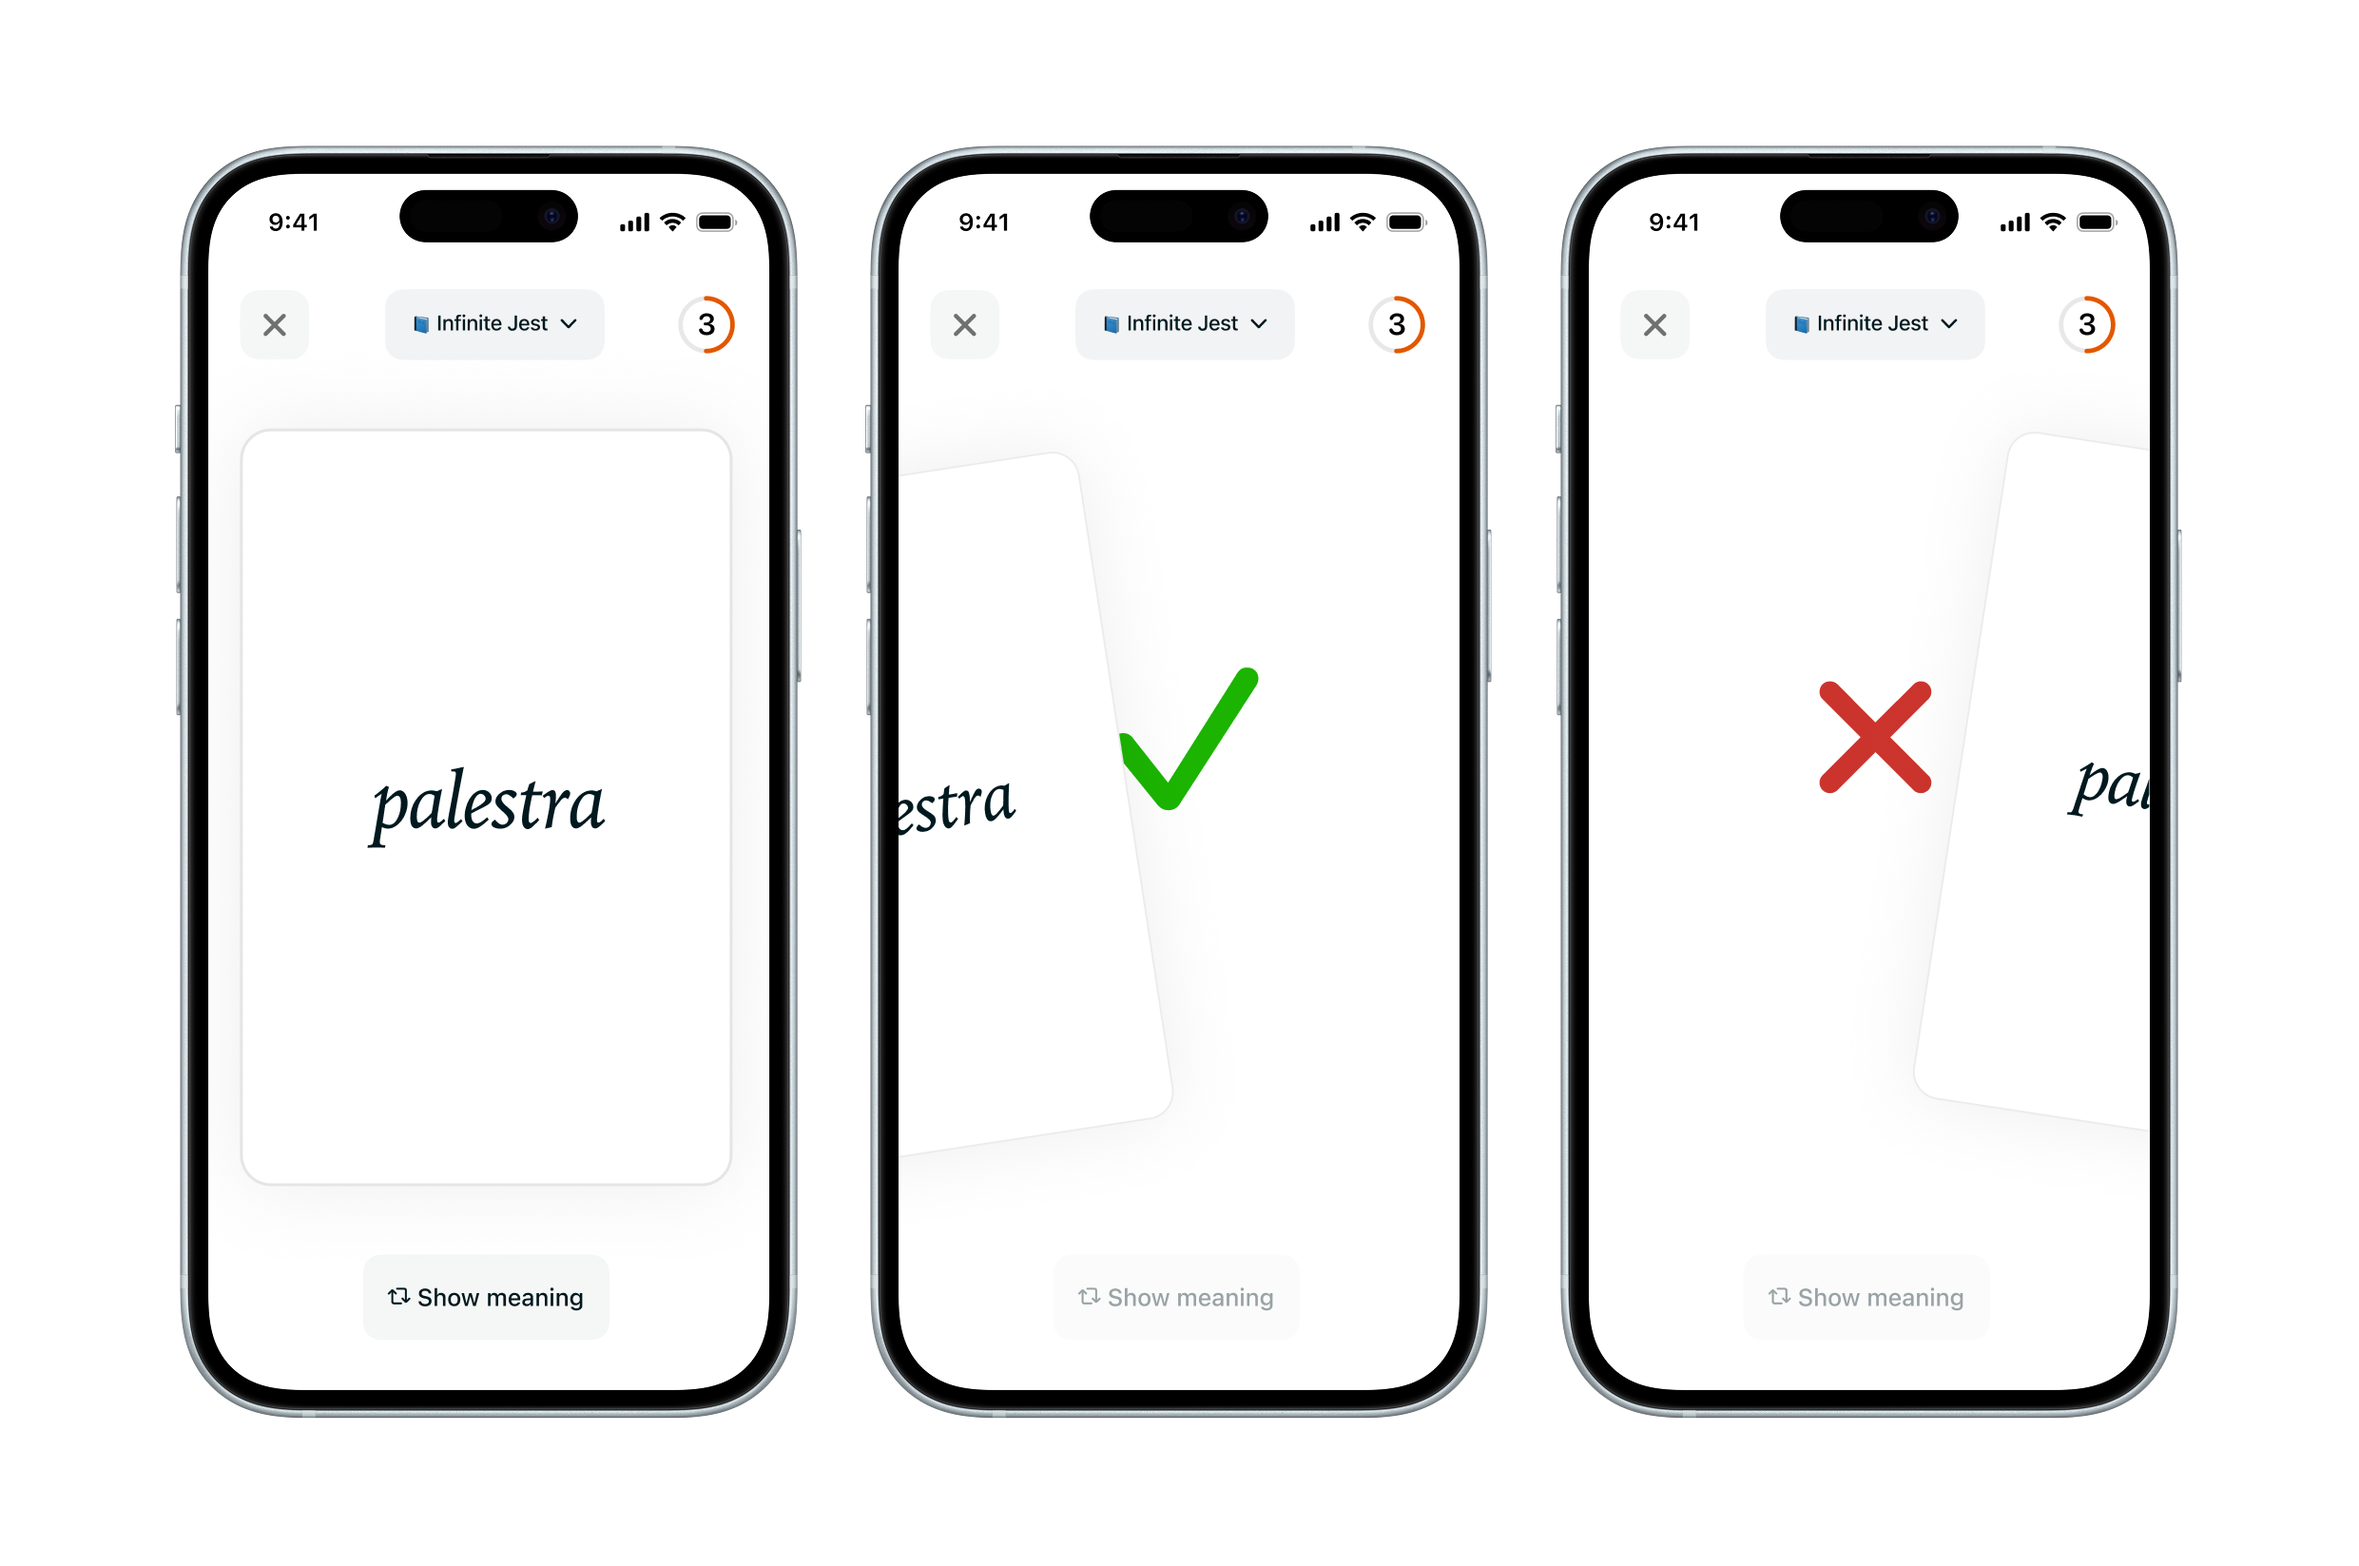
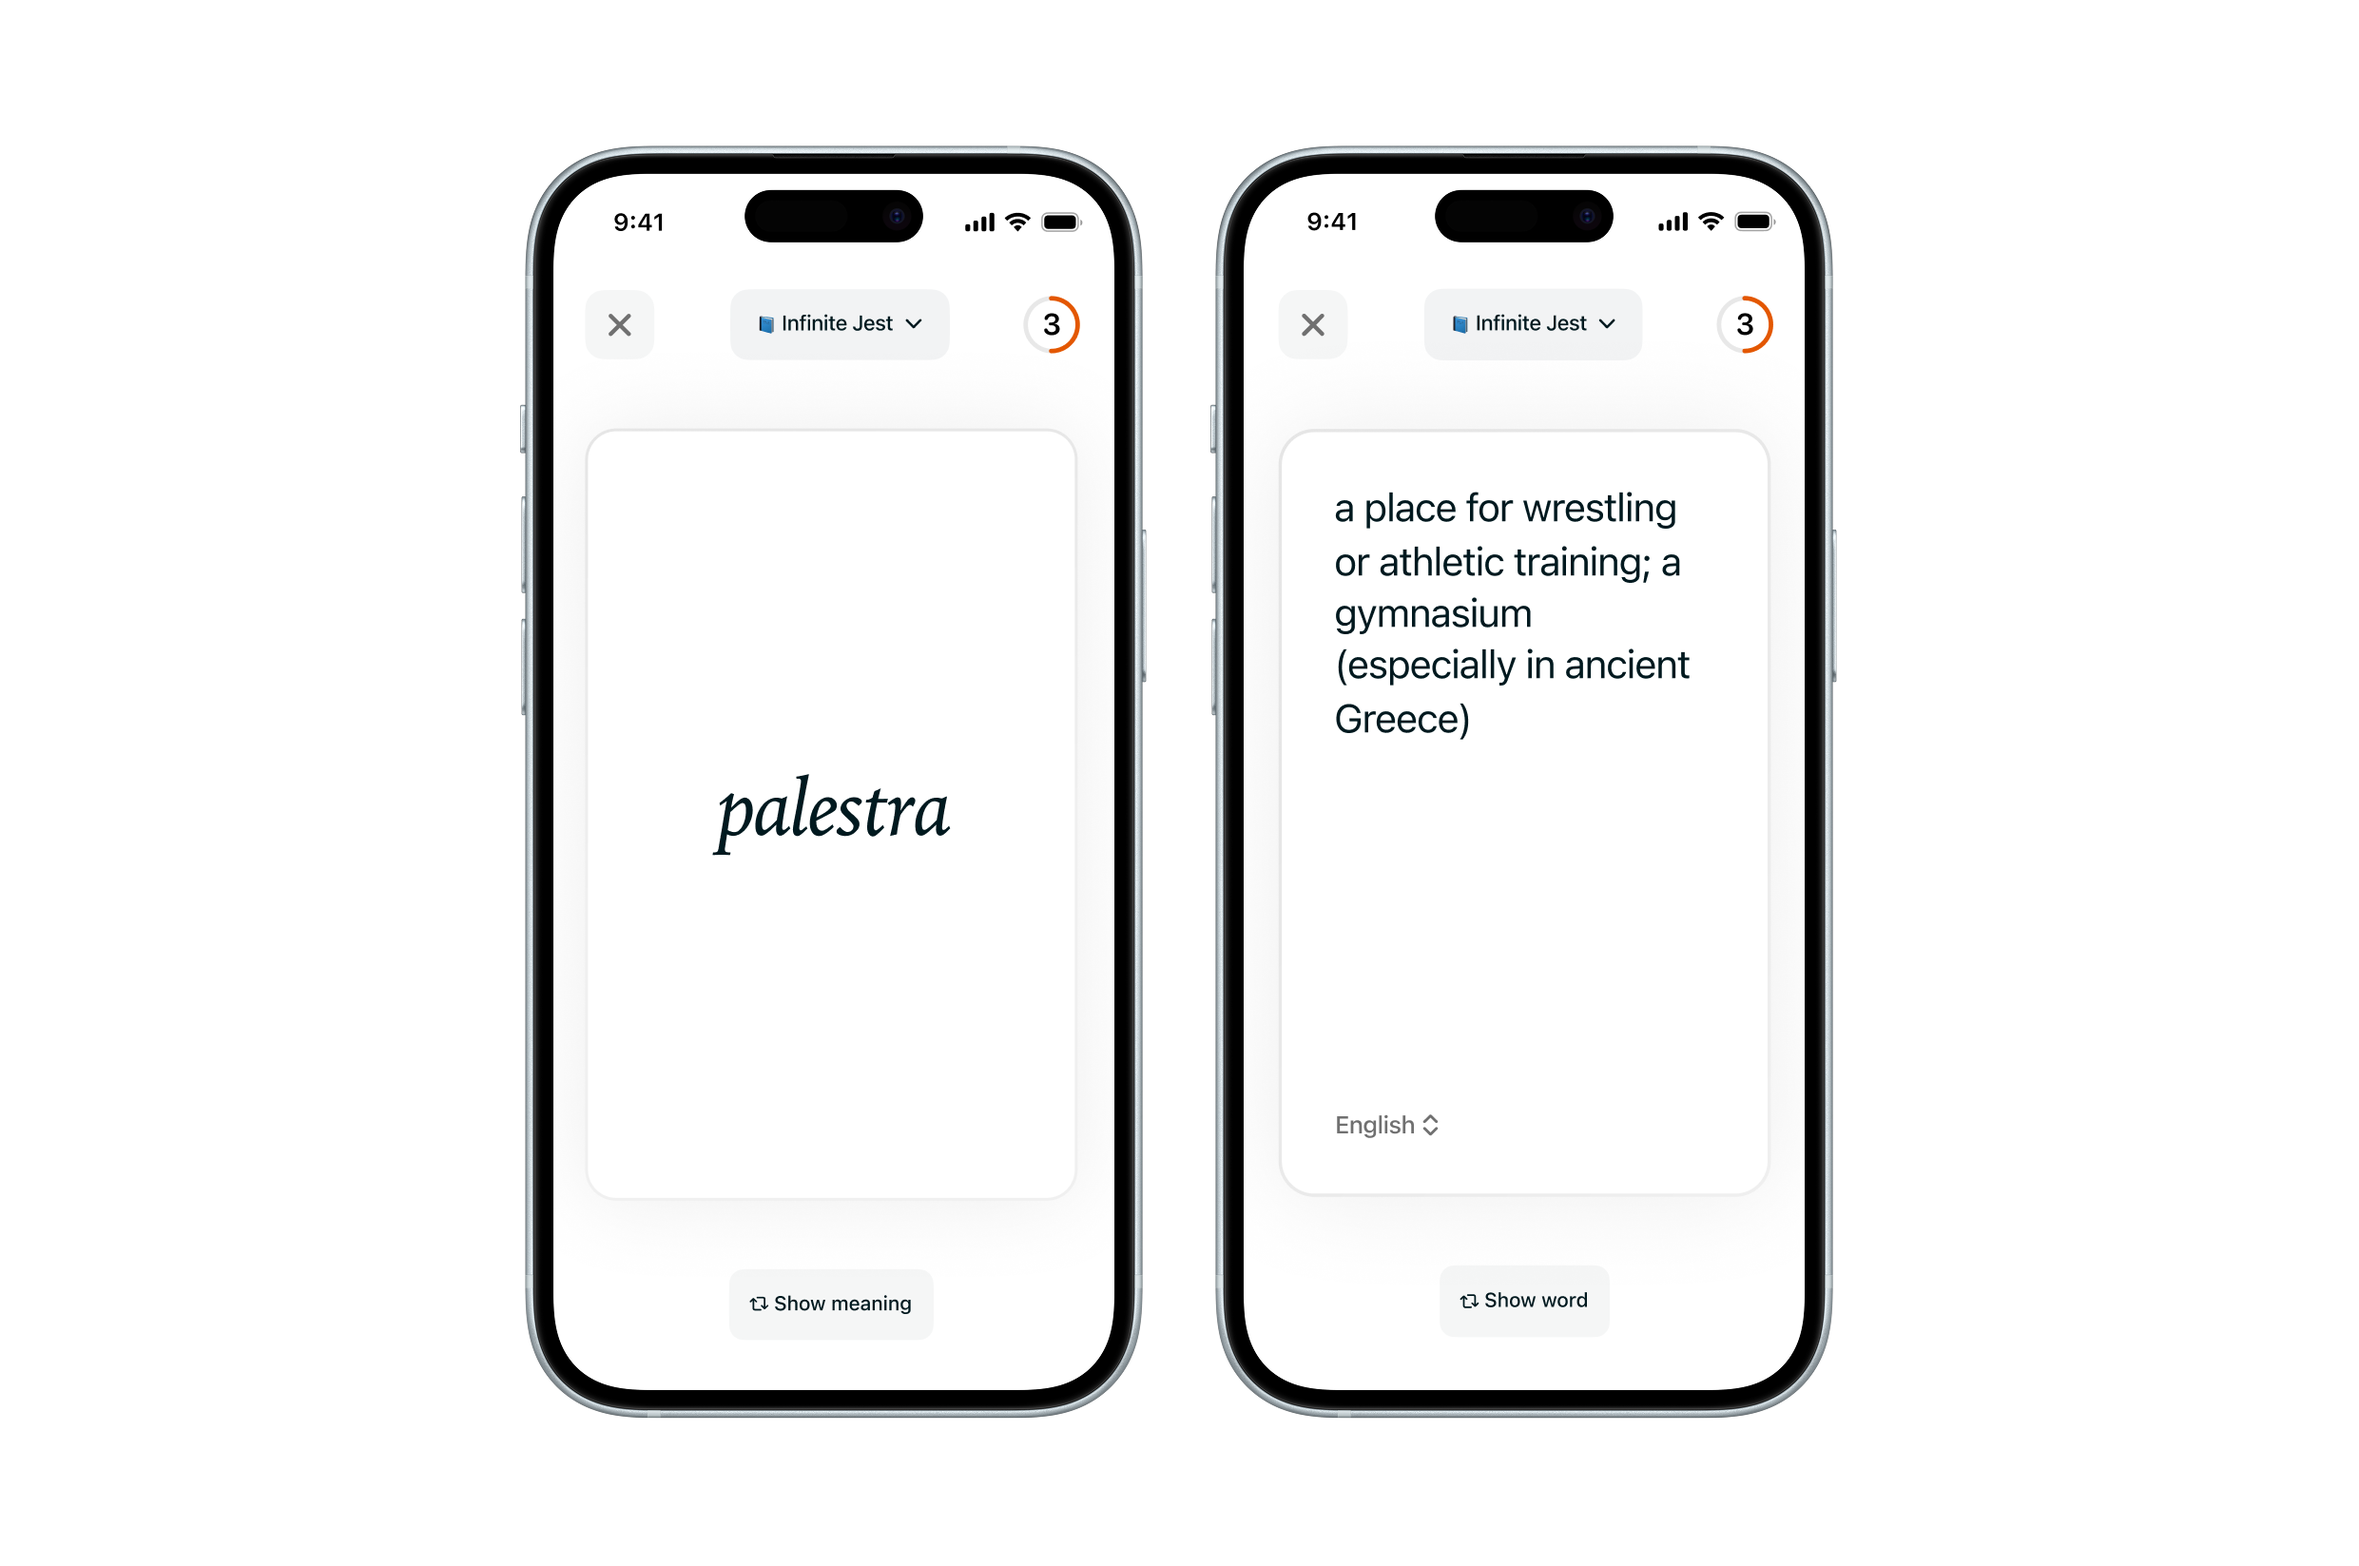
Words App: Worddefinitions + updated Learnwords + Swipewords full-width blocks; track assets
Made-with: Cursor

Changed region(s): [[0.0621, 0.0929, 0.9311, 0.929], [0.8069, 0.4954, 0.838, 0.5264]]

diff --git a/projects.html b/projects.html
@@ -629,6 +629,18 @@
 
                             <div class="grid-item is-full">
                                 <div class="visual-container">
+                                    <img src="assets/Xtb/Worddefinitions.png" alt="Words App word definitions"
+                                        class="visual-image img-worddefinitions">
+                                </div>
+                                <div class="grid-text">
+                                    <div class="grid-body-column">
+                                        <p>Definitions and examples help anchor meaning while you practice.</p>
+                                    </div>
+                                </div>
+                            </div>
+
+                            <div class="grid-item is-full">
+                                <div class="visual-container">
                                     <img src="assets/Xtb/Learnwords.png" alt="Words App learn words"
                                         class="visual-image img-learnwords">
                                 </div>
@@ -636,6 +648,18 @@
                                     <div class="grid-body-column">
                                         <p>Practice turns saved vocabulary into progress — with a flow built around the
                                             words you actually collect while reading.</p>
+                                    </div>
+                                </div>
+                            </div>
+
+                            <div class="grid-item is-full">
+                                <div class="visual-container">
+                                    <img src="assets/Xtb/Swipewords.png" alt="Words App swipe to review words"
+                                        class="visual-image img-swipewords">
+                                </div>
+                                <div class="grid-text">
+                                    <div class="grid-body-column">
+                                        <p>Swipe through words in a focused review session.</p>
                                     </div>
                                 </div>
                             </div>

diff --git a/project-page.css b/project-page.css
@@ -440,7 +440,9 @@ html {
 .img-wordstart,
 .img-newlist,
 .img-batchadd,
-.img-learnwords {
+.img-learnwords,
+.img-worddefinitions,
+.img-swipewords {
     object-fit: contain;
     object-position: center;
 }
